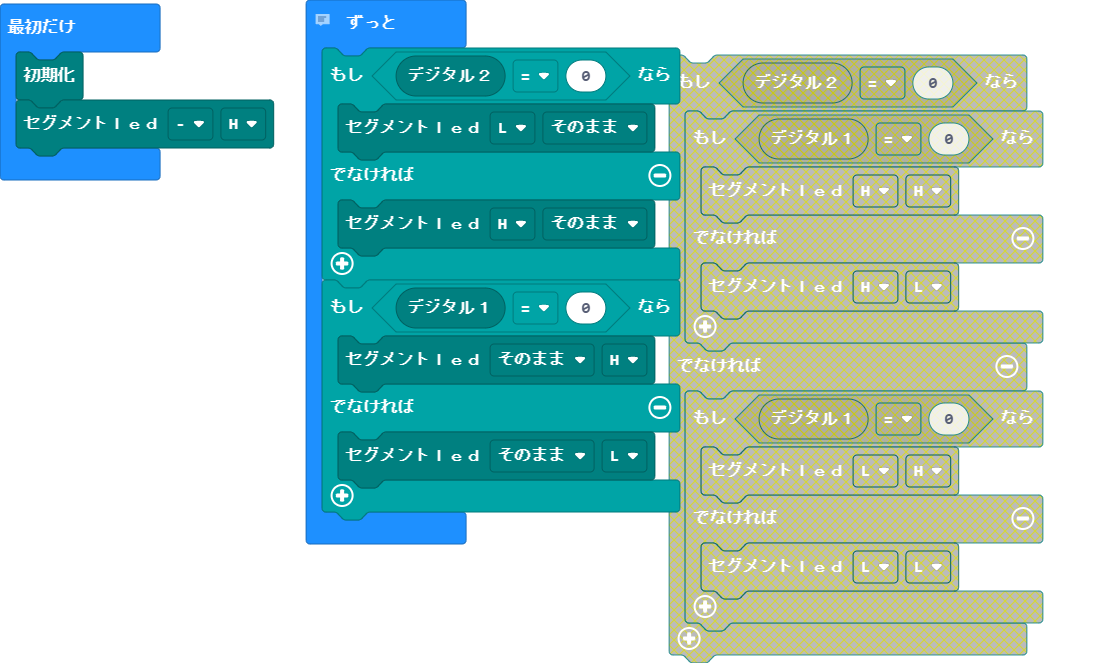
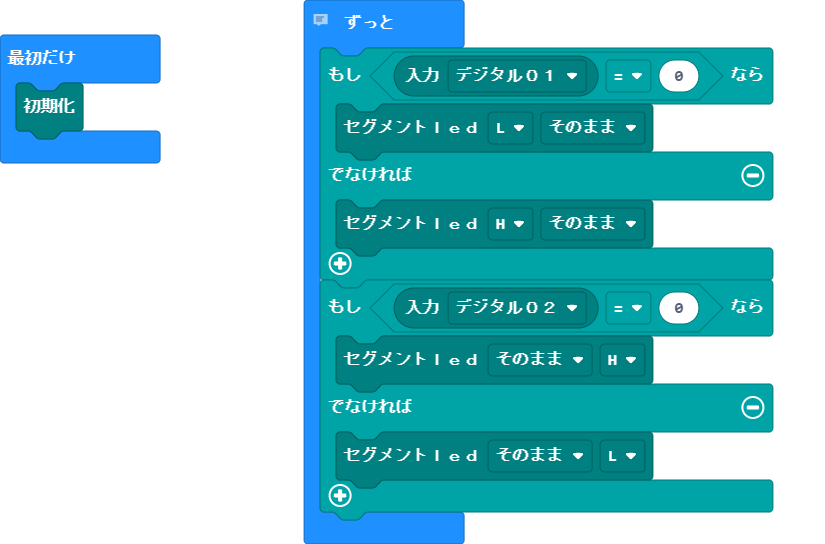
入力ブロックの作成

diff --git a/custom.ts b/custom.ts
@@ -66,6 +66,16 @@ enum LED_view {
     f
 
 }
+enum io {
+    //% block="デジタル０１"
+    digital01,
+    //% block="デジタル０２"
+    digital02,
+    //% block="アナログ０３"
+    analog03,
+    //% block="アナログ０４"
+    analog04,
+}
 let led_value:number
 let FullLED_Value:number
 let seg_l:number
@@ -90,6 +100,24 @@ namespace custom {
         pins.setPull(DigitalPin.P6, PinPullMode.PullNone)
         pins.setPull(DigitalPin.P7, PinPullMode.PullNone)
         pins.setPull(DigitalPin.P9, PinPullMode.PullNone)
+    }
+    //% block
+    export function 入力(i:io):any {
+        switch(i){
+            case io.digital01:
+                return pins.digitalReadPin(DigitalPin.P7)
+            break;
+            case io.digital02:
+                return pins.digitalReadPin(DigitalPin.P6)
+            break;
+            case io.analog03:
+                return pins.analogReadPin(AnalogPin.P4)
+            break;
+            case io.analog04:
+                return pins.analogReadPin(AnalogPin.P3)
+                break;
+        }
+        
     }
     //% block
     export function デジタル１(): any {

diff --git a/main.ts b/main.ts
@@ -1,13 +1,12 @@
 custom.initialize()
-custom.セグメントＬＥＤ(LED_view.minus, LED_view.Hi)
 // custom.セグメントＬＥＤ(LED_view.e, LED_view.black)
 basic.forever(function () {
-    if (custom.デジタル２() == 0) {
+    if (custom.入力(io.digital01) == 0) {
         custom.セグメントＬＥＤ(LED_view.Low, LED_view.pre)
     } else {
         custom.セグメントＬＥＤ(LED_view.Hi, LED_view.pre)
     }
-    if (custom.デジタル１() == 0) {
+    if (custom.入力(io.digital02) == 0) {
         custom.セグメントＬＥＤ(LED_view.pre, LED_view.Hi)
     } else {
         custom.セグメントＬＥＤ(LED_view.pre, LED_view.Low)
